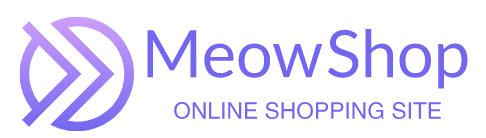
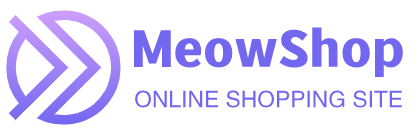
make my readme

Changed region(s): [[0.0, 0.0615, 0.9688, 0.9846], [0.3125, 0.6769, 0.9688, 0.8615]]

diff --git a/README.md b/README.md
@@ -1,4 +1,4 @@
-<img src='static/images/meow_logo.png' width='400' title='MeowShop, online shopping site'>
+<img src='static/images/meowshop.png' width='400' title='MeowShop, online shopping site'>
 
 A shopping websites that sell virtual items made by [Topaz](https://topaz1618.github.io/about)([Website](http://topazaws.com/)|[Blog](https://topaz1618.github.io/blog/))
 
